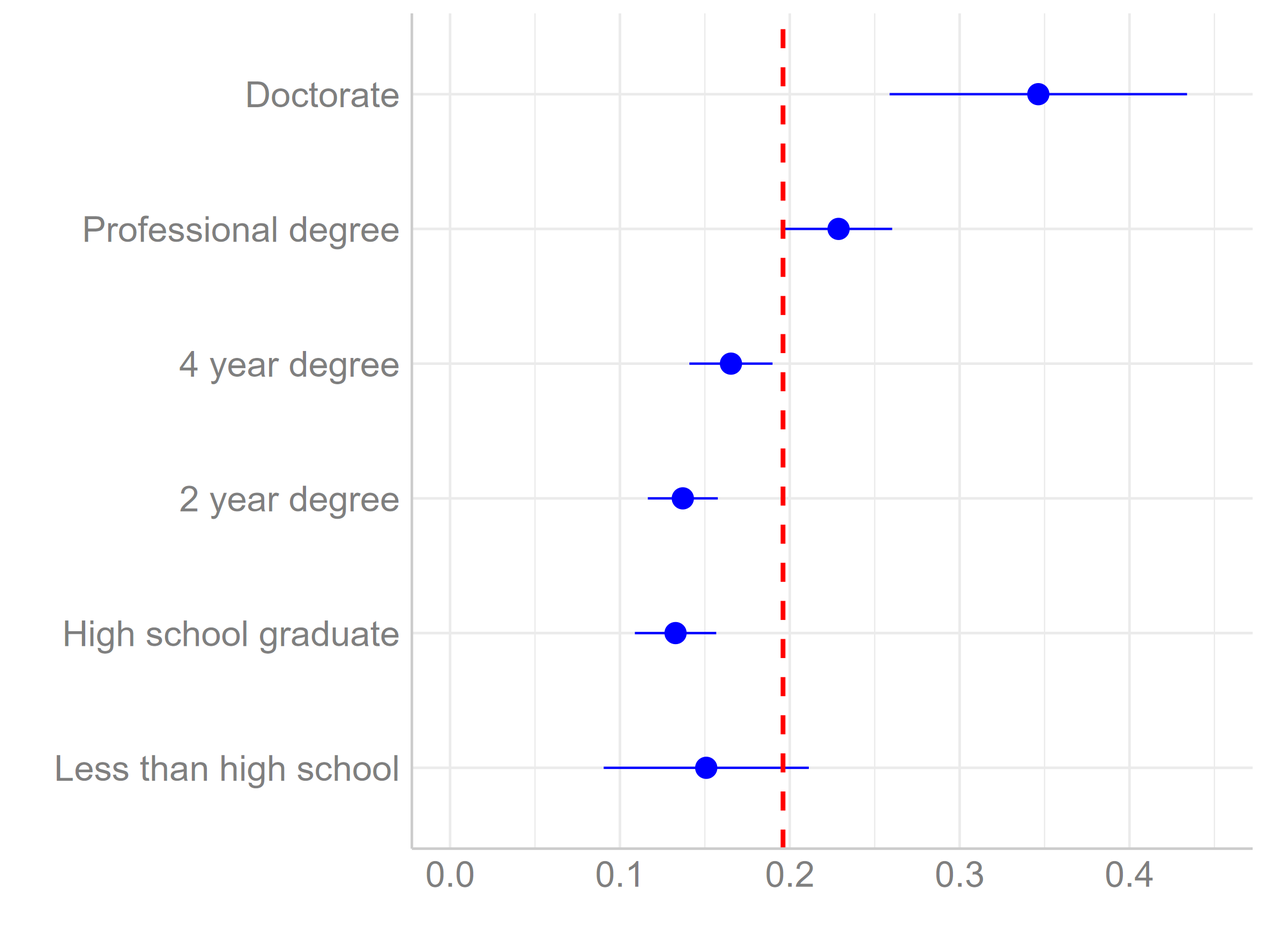
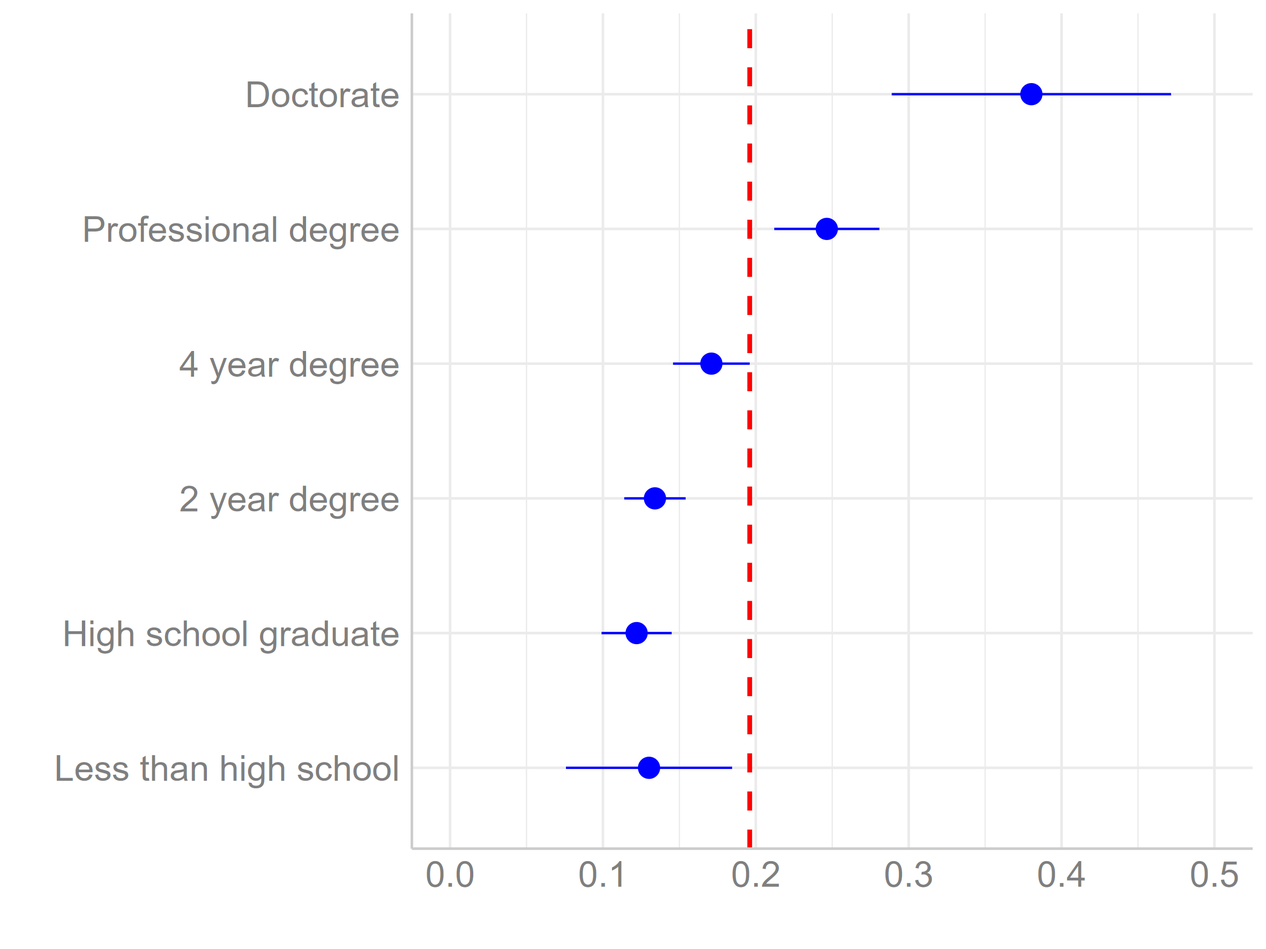
some stuff changed

diff --git a/Tabs/zinf-reg.html b/Tabs/zinf-reg.html
@@ -19,74 +19,74 @@
 </tr>
 <tr>
 <td style="border-bottom: 0px; padding:0.2cm; text-align:left; vertical-align:top; text-align:left; ">Intercept</td>
-<td style="border-bottom: 0px; padding:0.2cm; text-align:left; vertical-align:top; text-align:center;  ">1.337</td>
+<td style="border-bottom: 0px; padding:0.2cm; text-align:left; vertical-align:top; text-align:center;  ">1.247</td>
 <td style="border-bottom: 0px; padding:0.2cm; text-align:left; vertical-align:top; text-align:center;  "><strong>&lt;0.001</strong></td>
-<td style="border-bottom: 0px; padding:0.2cm; text-align:left; vertical-align:top; text-align:center;  ">1.356</td>
+<td style="border-bottom: 0px; padding:0.2cm; text-align:left; vertical-align:top; text-align:center;  ">1.267</td>
 <td style="border-bottom: 0px; padding:0.2cm; text-align:left; vertical-align:top; text-align:center;  "><strong>&lt;0.001</strong></td>
-<td style="border-bottom: 0px; padding:0.2cm; text-align:left; vertical-align:top; text-align:center;  ">1.341</td>
+<td style="border-bottom: 0px; padding:0.2cm; text-align:left; vertical-align:top; text-align:center;  ">1.250</td>
 <td style="border-bottom: 0px; padding:0.2cm; text-align:left; vertical-align:top; text-align:center;  col7"><strong>&lt;0.001</strong></td>
-<td style="border-bottom: 0px; padding:0.2cm; text-align:left; vertical-align:top; text-align:center;  col8">1.343</td>
+<td style="border-bottom: 0px; padding:0.2cm; text-align:left; vertical-align:top; text-align:center;  col8">1.252</td>
 <td style="border-bottom: 0px; padding:0.2cm; text-align:left; vertical-align:top; text-align:center;  col9"><strong>&lt;0.001</strong></td>
 </tr>
 <tr>
 <td style="border-bottom: 0px; padding:0.2cm; text-align:left; vertical-align:top; text-align:left; ">Age</td>
-<td style="border-bottom: 0px; padding:0.2cm; text-align:left; vertical-align:top; text-align:center;  ">0.018</td>
-<td style="border-bottom: 0px; padding:0.2cm; text-align:left; vertical-align:top; text-align:center;  "><strong>&lt;0.001</strong></td>
-<td style="border-bottom: 0px; padding:0.2cm; text-align:left; vertical-align:top; text-align:center;  ">0.019</td>
-<td style="border-bottom: 0px; padding:0.2cm; text-align:left; vertical-align:top; text-align:center;  "><strong>&lt;0.001</strong></td>
-<td style="border-bottom: 0px; padding:0.2cm; text-align:left; vertical-align:top; text-align:center;  ">0.018</td>
-<td style="border-bottom: 0px; padding:0.2cm; text-align:left; vertical-align:top; text-align:center;  col7"><strong>&lt;0.001</strong></td>
-<td style="border-bottom: 0px; padding:0.2cm; text-align:left; vertical-align:top; text-align:center;  col8">0.018</td>
-<td style="border-bottom: 0px; padding:0.2cm; text-align:left; vertical-align:top; text-align:center;  col9"><strong>&lt;0.001</strong></td>
+<td style="border-bottom: 0px; padding:0.2cm; text-align:left; vertical-align:top; text-align:center;  ">0.014</td>
+<td style="border-bottom: 0px; padding:0.2cm; text-align:left; vertical-align:top; text-align:center;  "><strong>0.001</strong></td>
+<td style="border-bottom: 0px; padding:0.2cm; text-align:left; vertical-align:top; text-align:center;  ">0.015</td>
+<td style="border-bottom: 0px; padding:0.2cm; text-align:left; vertical-align:top; text-align:center;  "><strong>0.001</strong></td>
+<td style="border-bottom: 0px; padding:0.2cm; text-align:left; vertical-align:top; text-align:center;  ">0.014</td>
+<td style="border-bottom: 0px; padding:0.2cm; text-align:left; vertical-align:top; text-align:center;  col7"><strong>0.001</strong></td>
+<td style="border-bottom: 0px; padding:0.2cm; text-align:left; vertical-align:top; text-align:center;  col8">0.014</td>
+<td style="border-bottom: 0px; padding:0.2cm; text-align:left; vertical-align:top; text-align:center;  col9"><strong>0.001</strong></td>
 </tr>
 <tr>
 <td style="border-bottom: 0px; padding:0.2cm; text-align:left; vertical-align:top; text-align:left; ">Education</td>
-<td style="border-bottom: 0px; padding:0.2cm; text-align:left; vertical-align:top; text-align:center;  ">&#45;0.026</td>
-<td style="border-bottom: 0px; padding:0.2cm; text-align:left; vertical-align:top; text-align:center;  "><strong>0.022</strong></td>
-<td style="border-bottom: 0px; padding:0.2cm; text-align:left; vertical-align:top; text-align:center;  ">&#45;0.025</td>
-<td style="border-bottom: 0px; padding:0.2cm; text-align:left; vertical-align:top; text-align:center;  "><strong>0.027</strong></td>
+<td style="border-bottom: 0px; padding:0.2cm; text-align:left; vertical-align:top; text-align:center;  ">&#45;0.020</td>
+<td style="border-bottom: 0px; padding:0.2cm; text-align:left; vertical-align:top; text-align:center;  ">0.089</td>
 <td style="border-bottom: 0px; padding:0.2cm; text-align:left; vertical-align:top; text-align:center;  ">&#45;0.019</td>
-<td style="border-bottom: 0px; padding:0.2cm; text-align:left; vertical-align:top; text-align:center;  col7">0.090</td>
-<td style="border-bottom: 0px; padding:0.2cm; text-align:left; vertical-align:top; text-align:center;  col8">&#45;0.019</td>
-<td style="border-bottom: 0px; padding:0.2cm; text-align:left; vertical-align:top; text-align:center;  col9">0.097</td>
+<td style="border-bottom: 0px; padding:0.2cm; text-align:left; vertical-align:top; text-align:center;  ">0.101</td>
+<td style="border-bottom: 0px; padding:0.2cm; text-align:left; vertical-align:top; text-align:center;  ">&#45;0.012</td>
+<td style="border-bottom: 0px; padding:0.2cm; text-align:left; vertical-align:top; text-align:center;  col7">0.315</td>
+<td style="border-bottom: 0px; padding:0.2cm; text-align:left; vertical-align:top; text-align:center;  col8">&#45;0.012</td>
+<td style="border-bottom: 0px; padding:0.2cm; text-align:left; vertical-align:top; text-align:center;  col9">0.324</td>
 </tr>
 <tr>
 <td style="border-bottom: 0px; padding:0.2cm; text-align:left; vertical-align:top; text-align:left; ">Income</td>
 <td style="border-bottom: 0px; padding:0.2cm; text-align:left; vertical-align:top; text-align:center;  ">&#45;0.012</td>
-<td style="border-bottom: 0px; padding:0.2cm; text-align:left; vertical-align:top; text-align:center;  "><strong>0.003</strong></td>
+<td style="border-bottom: 0px; padding:0.2cm; text-align:left; vertical-align:top; text-align:center;  "><strong>0.004</strong></td>
 <td style="border-bottom: 0px; padding:0.2cm; text-align:left; vertical-align:top; text-align:center;  ">&#45;0.012</td>
-<td style="border-bottom: 0px; padding:0.2cm; text-align:left; vertical-align:top; text-align:center;  "><strong>0.003</strong></td>
-<td style="border-bottom: 0px; padding:0.2cm; text-align:left; vertical-align:top; text-align:center;  ">&#45;0.012</td>
-<td style="border-bottom: 0px; padding:0.2cm; text-align:left; vertical-align:top; text-align:center;  col7"><strong>0.004</strong></td>
+<td style="border-bottom: 0px; padding:0.2cm; text-align:left; vertical-align:top; text-align:center;  "><strong>0.004</strong></td>
+<td style="border-bottom: 0px; padding:0.2cm; text-align:left; vertical-align:top; text-align:center;  ">&#45;0.011</td>
+<td style="border-bottom: 0px; padding:0.2cm; text-align:left; vertical-align:top; text-align:center;  col7"><strong>0.005</strong></td>
 <td style="border-bottom: 0px; padding:0.2cm; text-align:left; vertical-align:top; text-align:center;  col8">&#45;0.012</td>
-<td style="border-bottom: 0px; padding:0.2cm; text-align:left; vertical-align:top; text-align:center;  col9"><strong>0.002</strong></td>
+<td style="border-bottom: 0px; padding:0.2cm; text-align:left; vertical-align:top; text-align:center;  col9"><strong>0.003</strong></td>
 </tr>
 <tr>
 <td style="border-bottom: 0px; padding:0.2cm; text-align:left; vertical-align:top; text-align:left; ">Pol. Liberalism</td>
-<td style="border-bottom: 0px; padding:0.2cm; text-align:left; vertical-align:top; text-align:center;  ">&#45;0.038</td>
+<td style="border-bottom: 0px; padding:0.2cm; text-align:left; vertical-align:top; text-align:center;  ">&#45;0.035</td>
 <td style="border-bottom: 0px; padding:0.2cm; text-align:left; vertical-align:top; text-align:center;  "><strong>&lt;0.001</strong></td>
-<td style="border-bottom: 0px; padding:0.2cm; text-align:left; vertical-align:top; text-align:center;  ">&#45;0.038</td>
+<td style="border-bottom: 0px; padding:0.2cm; text-align:left; vertical-align:top; text-align:center;  ">&#45;0.036</td>
 <td style="border-bottom: 0px; padding:0.2cm; text-align:left; vertical-align:top; text-align:center;  "><strong>&lt;0.001</strong></td>
-<td style="border-bottom: 0px; padding:0.2cm; text-align:left; vertical-align:top; text-align:center;  ">&#45;0.039</td>
+<td style="border-bottom: 0px; padding:0.2cm; text-align:left; vertical-align:top; text-align:center;  ">&#45;0.036</td>
 <td style="border-bottom: 0px; padding:0.2cm; text-align:left; vertical-align:top; text-align:center;  col7"><strong>&lt;0.001</strong></td>
-<td style="border-bottom: 0px; padding:0.2cm; text-align:left; vertical-align:top; text-align:center;  col8">&#45;0.039</td>
+<td style="border-bottom: 0px; padding:0.2cm; text-align:left; vertical-align:top; text-align:center;  col8">&#45;0.036</td>
 <td style="border-bottom: 0px; padding:0.2cm; text-align:left; vertical-align:top; text-align:center;  col9"><strong>&lt;0.001</strong></td>
 </tr>
 <tr>
 <td style="border-bottom: 0px; padding:0.2cm; text-align:left; vertical-align:top; text-align:left; ">White</td>
-<td style="border-bottom: 0px; padding:0.2cm; text-align:left; vertical-align:top; text-align:center;  ">0.191</td>
+<td style="border-bottom: 0px; padding:0.2cm; text-align:left; vertical-align:top; text-align:center;  ">0.201</td>
 <td style="border-bottom: 0px; padding:0.2cm; text-align:left; vertical-align:top; text-align:center;  "><strong>&lt;0.001</strong></td>
-<td style="border-bottom: 0px; padding:0.2cm; text-align:left; vertical-align:top; text-align:center;  ">0.173</td>
+<td style="border-bottom: 0px; padding:0.2cm; text-align:left; vertical-align:top; text-align:center;  ">0.184</td>
 <td style="border-bottom: 0px; padding:0.2cm; text-align:left; vertical-align:top; text-align:center;  "><strong>&lt;0.001</strong></td>
-<td style="border-bottom: 0px; padding:0.2cm; text-align:left; vertical-align:top; text-align:center;  ">0.172</td>
+<td style="border-bottom: 0px; padding:0.2cm; text-align:left; vertical-align:top; text-align:center;  ">0.184</td>
 <td style="border-bottom: 0px; padding:0.2cm; text-align:left; vertical-align:top; text-align:center;  col7"><strong>&lt;0.001</strong></td>
-<td style="border-bottom: 0px; padding:0.2cm; text-align:left; vertical-align:top; text-align:center;  col8">0.173</td>
+<td style="border-bottom: 0px; padding:0.2cm; text-align:left; vertical-align:top; text-align:center;  col8">0.186</td>
 <td style="border-bottom: 0px; padding:0.2cm; text-align:left; vertical-align:top; text-align:center;  col9"><strong>&lt;0.001</strong></td>
 </tr>
 <tr>
 <td style="border-bottom: 0px; padding:0.2cm; text-align:left; vertical-align:top; text-align:left; ">Woman</td>
-<td style="border-bottom: 0px; padding:0.2cm; text-align:left; vertical-align:top; text-align:center;  ">0.017</td>
-<td style="border-bottom: 0px; padding:0.2cm; text-align:left; vertical-align:top; text-align:center;  ">0.516</td>
+<td style="border-bottom: 0px; padding:0.2cm; text-align:left; vertical-align:top; text-align:center;  ">0.016</td>
+<td style="border-bottom: 0px; padding:0.2cm; text-align:left; vertical-align:top; text-align:center;  ">0.527</td>
 <td style="border-bottom: 0px; padding:0.2cm; text-align:left; vertical-align:top; text-align:center;  "></td>
 <td style="border-bottom: 0px; padding:0.2cm; text-align:left; vertical-align:top; text-align:center;  "></td>
 <td style="border-bottom: 0px; padding:0.2cm; text-align:left; vertical-align:top; text-align:center;  "></td>
@@ -95,50 +95,94 @@
 <td style="border-bottom: 0px; padding:0.2cm; text-align:left; vertical-align:top; text-align:center;  col9"></td>
 </tr>
 <tr>
+<td style="border-bottom: 0px; padding:0.2cm; text-align:left; vertical-align:top; text-align:left; ">Survey (Prolific 2023)</td>
+<td style="border-bottom: 0px; padding:0.2cm; text-align:left; vertical-align:top; text-align:center;  ">0.072</td>
+<td style="border-bottom: 0px; padding:0.2cm; text-align:left; vertical-align:top; text-align:center;  "><strong>0.045</strong></td>
+<td style="border-bottom: 0px; padding:0.2cm; text-align:left; vertical-align:top; text-align:center;  ">0.071</td>
+<td style="border-bottom: 0px; padding:0.2cm; text-align:left; vertical-align:top; text-align:center;  "><strong>0.047</strong></td>
+<td style="border-bottom: 0px; padding:0.2cm; text-align:left; vertical-align:top; text-align:center;  ">0.065</td>
+<td style="border-bottom: 0px; padding:0.2cm; text-align:left; vertical-align:top; text-align:center;  col7">0.068</td>
+<td style="border-bottom: 0px; padding:0.2cm; text-align:left; vertical-align:top; text-align:center;  col8">0.066</td>
+<td style="border-bottom: 0px; padding:0.2cm; text-align:left; vertical-align:top; text-align:center;  col9">0.065</td>
+</tr>
+<tr>
+<td style="border-bottom: 0px; padding:0.2cm; text-align:left; vertical-align:top; text-align:left; ">Survey (Lucid 2025)</td>
+<td style="border-bottom: 0px; padding:0.2cm; text-align:left; vertical-align:top; text-align:center;  ">0.116</td>
+<td style="border-bottom: 0px; padding:0.2cm; text-align:left; vertical-align:top; text-align:center;  "><strong>0.002</strong></td>
+<td style="border-bottom: 0px; padding:0.2cm; text-align:left; vertical-align:top; text-align:center;  ">0.113</td>
+<td style="border-bottom: 0px; padding:0.2cm; text-align:left; vertical-align:top; text-align:center;  "><strong>0.003</strong></td>
+<td style="border-bottom: 0px; padding:0.2cm; text-align:left; vertical-align:top; text-align:center;  ">0.114</td>
+<td style="border-bottom: 0px; padding:0.2cm; text-align:left; vertical-align:top; text-align:center;  col7"><strong>0.002</strong></td>
+<td style="border-bottom: 0px; padding:0.2cm; text-align:left; vertical-align:top; text-align:center;  col8">0.114</td>
+<td style="border-bottom: 0px; padding:0.2cm; text-align:left; vertical-align:top; text-align:center;  col9"><strong>0.002</strong></td>
+</tr>
+<tr>
 <td colspan="9" style="font-weight:bold; text-align:left; padding-top:.8em;">Zero-Inflated Model</td>
 </tr>
 <tr>
 <td style="border-bottom: 0px; padding:0.2cm; text-align:left; vertical-align:top; text-align:left; ">zero_Intercept</td>
-<td style="border-bottom: 0px; padding:0.2cm; text-align:left; vertical-align:top; text-align:center;  ">&#45;0.946</td>
+<td style="border-bottom: 0px; padding:0.2cm; text-align:left; vertical-align:top; text-align:center;  ">&#45;0.800</td>
 <td style="border-bottom: 0px; padding:0.2cm; text-align:left; vertical-align:top; text-align:center;  "><strong>&lt;0.001</strong></td>
-<td style="border-bottom: 0px; padding:0.2cm; text-align:left; vertical-align:top; text-align:center;  ">&#45;0.547</td>
-<td style="border-bottom: 0px; padding:0.2cm; text-align:left; vertical-align:top; text-align:center;  "><strong>&lt;0.001</strong></td>
-<td style="border-bottom: 0px; padding:0.2cm; text-align:left; vertical-align:top; text-align:center;  ">0.021</td>
-<td style="border-bottom: 0px; padding:0.2cm; text-align:left; vertical-align:top; text-align:center;  col7">0.966</td>
-<td style="border-bottom: 0px; padding:0.2cm; text-align:left; vertical-align:top; text-align:center;  col8">0.401</td>
-<td style="border-bottom: 0px; padding:0.2cm; text-align:left; vertical-align:top; text-align:center;  col9">0.425</td>
+<td style="border-bottom: 0px; padding:0.2cm; text-align:left; vertical-align:top; text-align:center;  ">&#45;0.424</td>
+<td style="border-bottom: 0px; padding:0.2cm; text-align:left; vertical-align:top; text-align:center;  "><strong>0.014</strong></td>
+<td style="border-bottom: 0px; padding:0.2cm; text-align:left; vertical-align:top; text-align:center;  ">&#45;0.182</td>
+<td style="border-bottom: 0px; padding:0.2cm; text-align:left; vertical-align:top; text-align:center;  col7">0.720</td>
+<td style="border-bottom: 0px; padding:0.2cm; text-align:left; vertical-align:top; text-align:center;  col8">0.169</td>
+<td style="border-bottom: 0px; padding:0.2cm; text-align:left; vertical-align:top; text-align:center;  col9">0.748</td>
 </tr>
 <tr>
 <td style="border-bottom: 0px; padding:0.2cm; text-align:left; vertical-align:top; text-align:left; ">zero_Age</td>
-<td style="border-bottom: 0px; padding:0.2cm; text-align:left; vertical-align:top; text-align:center;  ">&#45;0.112</td>
+<td style="border-bottom: 0px; padding:0.2cm; text-align:left; vertical-align:top; text-align:center;  ">&#45;0.113</td>
 <td style="border-bottom: 0px; padding:0.2cm; text-align:left; vertical-align:top; text-align:center;  "><strong>&lt;0.001</strong></td>
-<td style="border-bottom: 0px; padding:0.2cm; text-align:left; vertical-align:top; text-align:center;  ">&#45;0.092</td>
+<td style="border-bottom: 0px; padding:0.2cm; text-align:left; vertical-align:top; text-align:center;  ">&#45;0.096</td>
 <td style="border-bottom: 0px; padding:0.2cm; text-align:left; vertical-align:top; text-align:center;  "><strong>&lt;0.001</strong></td>
-<td style="border-bottom: 0px; padding:0.2cm; text-align:left; vertical-align:top; text-align:center;  ">&#45;0.102</td>
+<td style="border-bottom: 0px; padding:0.2cm; text-align:left; vertical-align:top; text-align:center;  ">&#45;0.117</td>
 <td style="border-bottom: 0px; padding:0.2cm; text-align:left; vertical-align:top; text-align:center;  col7"><strong>&lt;0.001</strong></td>
-<td style="border-bottom: 0px; padding:0.2cm; text-align:left; vertical-align:top; text-align:center;  col8">&#45;0.102</td>
+<td style="border-bottom: 0px; padding:0.2cm; text-align:left; vertical-align:top; text-align:center;  col8">&#45;0.117</td>
 <td style="border-bottom: 0px; padding:0.2cm; text-align:left; vertical-align:top; text-align:center;  col9"><strong>&lt;0.001</strong></td>
+</tr>
+<tr>
+<td style="border-bottom: 0px; padding:0.2cm; text-align:left; vertical-align:top; text-align:left; ">zero_Survey (Prolific 2023)</td>
+<td style="border-bottom: 0px; padding:0.2cm; text-align:left; vertical-align:top; text-align:center;  ">&#45;0.506</td>
+<td style="border-bottom: 0px; padding:0.2cm; text-align:left; vertical-align:top; text-align:center;  "><strong>0.003</strong></td>
+<td style="border-bottom: 0px; padding:0.2cm; text-align:left; vertical-align:top; text-align:center;  ">&#45;0.486</td>
+<td style="border-bottom: 0px; padding:0.2cm; text-align:left; vertical-align:top; text-align:center;  "><strong>0.004</strong></td>
+<td style="border-bottom: 0px; padding:0.2cm; text-align:left; vertical-align:top; text-align:center;  ">&#45;0.491</td>
+<td style="border-bottom: 0px; padding:0.2cm; text-align:left; vertical-align:top; text-align:center;  col7"><strong>0.004</strong></td>
+<td style="border-bottom: 0px; padding:0.2cm; text-align:left; vertical-align:top; text-align:center;  col8">&#45;0.482</td>
+<td style="border-bottom: 0px; padding:0.2cm; text-align:left; vertical-align:top; text-align:center;  col9"><strong>0.005</strong></td>
+</tr>
+<tr>
+<td style="border-bottom: 0px; padding:0.2cm; text-align:left; vertical-align:top; text-align:left; ">zero_Survey (Lucid 2025)</td>
+<td style="border-bottom: 0px; padding:0.2cm; text-align:left; vertical-align:top; text-align:center;  ">0.050</td>
+<td style="border-bottom: 0px; padding:0.2cm; text-align:left; vertical-align:top; text-align:center;  ">0.749</td>
+<td style="border-bottom: 0px; padding:0.2cm; text-align:left; vertical-align:top; text-align:center;  ">0.051</td>
+<td style="border-bottom: 0px; padding:0.2cm; text-align:left; vertical-align:top; text-align:center;  ">0.746</td>
+<td style="border-bottom: 0px; padding:0.2cm; text-align:left; vertical-align:top; text-align:center;  ">0.322</td>
+<td style="border-bottom: 0px; padding:0.2cm; text-align:left; vertical-align:top; text-align:center;  col7">0.054</td>
+<td style="border-bottom: 0px; padding:0.2cm; text-align:left; vertical-align:top; text-align:center;  col8">0.317</td>
+<td style="border-bottom: 0px; padding:0.2cm; text-align:left; vertical-align:top; text-align:center;  col9">0.059</td>
 </tr>
 <tr>
 <td style="border-bottom: 0px; padding:0.2cm; text-align:left; vertical-align:top; text-align:left; ">zero_White</td>
 <td style="border-bottom: 0px; padding:0.2cm; text-align:left; vertical-align:top; text-align:center;  "></td>
 <td style="border-bottom: 0px; padding:0.2cm; text-align:left; vertical-align:top; text-align:center;  "></td>
-<td style="border-bottom: 0px; padding:0.2cm; text-align:left; vertical-align:top; text-align:center;  ">&#45;0.379</td>
-<td style="border-bottom: 0px; padding:0.2cm; text-align:left; vertical-align:top; text-align:center;  "><strong>0.006</strong></td>
-<td style="border-bottom: 0px; padding:0.2cm; text-align:left; vertical-align:top; text-align:center;  ">&#45;0.421</td>
-<td style="border-bottom: 0px; padding:0.2cm; text-align:left; vertical-align:top; text-align:center;  col7"><strong>0.002</strong></td>
-<td style="border-bottom: 0px; padding:0.2cm; text-align:left; vertical-align:top; text-align:center;  col8">&#45;0.397</td>
-<td style="border-bottom: 0px; padding:0.2cm; text-align:left; vertical-align:top; text-align:center;  col9"><strong>0.005</strong></td>
+<td style="border-bottom: 0px; padding:0.2cm; text-align:left; vertical-align:top; text-align:center;  ">&#45;0.320</td>
+<td style="border-bottom: 0px; padding:0.2cm; text-align:left; vertical-align:top; text-align:center;  "><strong>0.024</strong></td>
+<td style="border-bottom: 0px; padding:0.2cm; text-align:left; vertical-align:top; text-align:center;  ">&#45;0.347</td>
+<td style="border-bottom: 0px; padding:0.2cm; text-align:left; vertical-align:top; text-align:center;  col7"><strong>0.016</strong></td>
+<td style="border-bottom: 0px; padding:0.2cm; text-align:left; vertical-align:top; text-align:center;  col8">&#45;0.323</td>
+<td style="border-bottom: 0px; padding:0.2cm; text-align:left; vertical-align:top; text-align:center;  col9"><strong>0.026</strong></td>
 </tr>
 <tr>
 <td style="border-bottom: 0px; padding:0.2cm; text-align:left; vertical-align:top; text-align:left; ">zero_Woman</td>
 <td style="border-bottom: 0px; padding:0.2cm; text-align:left; vertical-align:top; text-align:center;  "></td>
 <td style="border-bottom: 0px; padding:0.2cm; text-align:left; vertical-align:top; text-align:center;  "></td>
-<td style="border-bottom: 0px; padding:0.2cm; text-align:left; vertical-align:top; text-align:center;  ">&#45;0.552</td>
+<td style="border-bottom: 0px; padding:0.2cm; text-align:left; vertical-align:top; text-align:center;  ">&#45;0.560</td>
 <td style="border-bottom: 0px; padding:0.2cm; text-align:left; vertical-align:top; text-align:center;  "><strong>&lt;0.001</strong></td>
-<td style="border-bottom: 0px; padding:0.2cm; text-align:left; vertical-align:top; text-align:center;  ">&#45;0.500</td>
+<td style="border-bottom: 0px; padding:0.2cm; text-align:left; vertical-align:top; text-align:center;  ">&#45;0.507</td>
 <td style="border-bottom: 0px; padding:0.2cm; text-align:left; vertical-align:top; text-align:center;  col7"><strong>&lt;0.001</strong></td>
-<td style="border-bottom: 0px; padding:0.2cm; text-align:left; vertical-align:top; text-align:center;  col8">&#45;0.515</td>
+<td style="border-bottom: 0px; padding:0.2cm; text-align:left; vertical-align:top; text-align:center;  col8">&#45;0.518</td>
 <td style="border-bottom: 0px; padding:0.2cm; text-align:left; vertical-align:top; text-align:center;  col9"><strong>&lt;0.001</strong></td>
 </tr>
 <tr>
@@ -147,10 +191,10 @@
 <td style="border-bottom: 0px; padding:0.2cm; text-align:left; vertical-align:top; text-align:center;  "></td>
 <td style="border-bottom: 0px; padding:0.2cm; text-align:left; vertical-align:top; text-align:center;  "></td>
 <td style="border-bottom: 0px; padding:0.2cm; text-align:left; vertical-align:top; text-align:center;  "></td>
-<td style="border-bottom: 0px; padding:0.2cm; text-align:left; vertical-align:top; text-align:center;  ">&#45;0.601</td>
-<td style="border-bottom: 0px; padding:0.2cm; text-align:left; vertical-align:top; text-align:center;  col7"><strong>0.036</strong></td>
-<td style="border-bottom: 0px; padding:0.2cm; text-align:left; vertical-align:top; text-align:center;  col8">&#45;0.441</td>
-<td style="border-bottom: 0px; padding:0.2cm; text-align:left; vertical-align:top; text-align:center;  col9">0.132</td>
+<td style="border-bottom: 0px; padding:0.2cm; text-align:left; vertical-align:top; text-align:center;  ">&#45;0.521</td>
+<td style="border-bottom: 0px; padding:0.2cm; text-align:left; vertical-align:top; text-align:center;  col7">0.071</td>
+<td style="border-bottom: 0px; padding:0.2cm; text-align:left; vertical-align:top; text-align:center;  col8">&#45;0.362</td>
+<td style="border-bottom: 0px; padding:0.2cm; text-align:left; vertical-align:top; text-align:center;  col9">0.221</td>
 </tr>
 <tr>
 <td style="border-bottom: 0px; padding:0.2cm; text-align:left; vertical-align:top; text-align:left; ">zero_Education Squared</td>
@@ -160,8 +204,8 @@
 <td style="border-bottom: 0px; padding:0.2cm; text-align:left; vertical-align:top; text-align:center;  "></td>
 <td style="border-bottom: 0px; padding:0.2cm; text-align:left; vertical-align:top; text-align:center;  ">0.114</td>
 <td style="border-bottom: 0px; padding:0.2cm; text-align:left; vertical-align:top; text-align:center;  col7"><strong>0.004</strong></td>
-<td style="border-bottom: 0px; padding:0.2cm; text-align:left; vertical-align:top; text-align:center;  col8">0.096</td>
-<td style="border-bottom: 0px; padding:0.2cm; text-align:left; vertical-align:top; text-align:center;  col9"><strong>0.017</strong></td>
+<td style="border-bottom: 0px; padding:0.2cm; text-align:left; vertical-align:top; text-align:center;  col8">0.095</td>
+<td style="border-bottom: 0px; padding:0.2cm; text-align:left; vertical-align:top; text-align:center;  col9"><strong>0.018</strong></td>
 </tr>
 <tr>
 <td style="border-bottom: 0px; padding:0.2cm; text-align:left; vertical-align:top; text-align:left; ">zero_Income</td>
@@ -171,8 +215,8 @@
 <td style="border-bottom: 0px; padding:0.2cm; text-align:left; vertical-align:top; text-align:center;  "></td>
 <td style="border-bottom: 0px; padding:0.2cm; text-align:left; vertical-align:top; text-align:center;  "></td>
 <td style="border-bottom: 0px; padding:0.2cm; text-align:left; vertical-align:top; text-align:center;  col7"></td>
-<td style="border-bottom: 0px; padding:0.2cm; text-align:left; vertical-align:top; text-align:center;  col8">&#45;0.243</td>
-<td style="border-bottom: 0px; padding:0.2cm; text-align:left; vertical-align:top; text-align:center;  col9"><strong>0.003</strong></td>
+<td style="border-bottom: 0px; padding:0.2cm; text-align:left; vertical-align:top; text-align:center;  col8">&#45;0.231</td>
+<td style="border-bottom: 0px; padding:0.2cm; text-align:left; vertical-align:top; text-align:center;  col9"><strong>0.005</strong></td>
 </tr>
 <tr>
 <td style="border-bottom: 0px; padding:0.2cm; text-align:left; vertical-align:top; text-align:left; ">zero_Income Squared</td>
@@ -182,8 +226,8 @@
 <td style="border-bottom: 0px; padding:0.2cm; text-align:left; vertical-align:top; text-align:center;  "></td>
 <td style="border-bottom: 0px; padding:0.2cm; text-align:left; vertical-align:top; text-align:center;  "></td>
 <td style="border-bottom: 0px; padding:0.2cm; text-align:left; vertical-align:top; text-align:center;  col7"></td>
-<td style="border-bottom: 0px; padding:0.2cm; text-align:left; vertical-align:top; text-align:center;  col8">0.016</td>
-<td style="border-bottom: 0px; padding:0.2cm; text-align:left; vertical-align:top; text-align:center;  col9"><strong>0.006</strong></td>
+<td style="border-bottom: 0px; padding:0.2cm; text-align:left; vertical-align:top; text-align:center;  col8">0.015</td>
+<td style="border-bottom: 0px; padding:0.2cm; text-align:left; vertical-align:top; text-align:center;  col9"><strong>0.010</strong></td>
 </tr>
 <tr>
 <td style="border-bottom: 0px; padding:0.2cm; text-align:left; vertical-align:top; text-align:left; padding-top:0.1cm; padding-bottom:0.1cm; border-top:1px solid;">Observations</td>
@@ -194,10 +238,10 @@
 </tr>
 <tr>
 <td style="border-bottom: 0px; padding:0.2cm; text-align:left; vertical-align:top; text-align:left; padding-top:0.1cm; padding-bottom:0.1cm;">R<sup>2</sup> / R<sup>2</sup> adjusted</td>
-<td style="border-bottom: 0px; padding:0.2cm; text-align:left; vertical-align:top; padding-top:0.1cm; padding-bottom:0.1cm; text-align:center;" colspan="2">0.208 / 0.206</td>
-<td style="border-bottom: 0px; padding:0.2cm; text-align:left; vertical-align:top; padding-top:0.1cm; padding-bottom:0.1cm; text-align:center;" colspan="2">0.230 / 0.228</td>
-<td style="border-bottom: 0px; padding:0.2cm; text-align:left; vertical-align:top; padding-top:0.1cm; padding-bottom:0.1cm; text-align:center;" colspan="2">0.254 / 0.252</td>
-<td style="border-bottom: 0px; padding:0.2cm; text-align:left; vertical-align:top; padding-top:0.1cm; padding-bottom:0.1cm; text-align:center;" colspan="2">0.255 / 0.253</td>
+<td style="border-bottom: 0px; padding:0.2cm; text-align:left; vertical-align:top; padding-top:0.1cm; padding-bottom:0.1cm; text-align:center;" colspan="2">0.218 / 0.214</td>
+<td style="border-bottom: 0px; padding:0.2cm; text-align:left; vertical-align:top; padding-top:0.1cm; padding-bottom:0.1cm; text-align:center;" colspan="2">0.237 / 0.234</td>
+<td style="border-bottom: 0px; padding:0.2cm; text-align:left; vertical-align:top; padding-top:0.1cm; padding-bottom:0.1cm; text-align:center;" colspan="2">0.263 / 0.260</td>
+<td style="border-bottom: 0px; padding:0.2cm; text-align:left; vertical-align:top; padding-top:0.1cm; padding-bottom:0.1cm; text-align:center;" colspan="2">0.263 / 0.261</td>
 </tr>
 
 </table>
